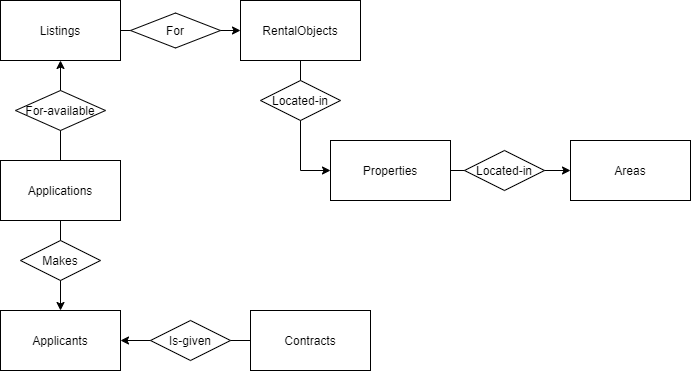
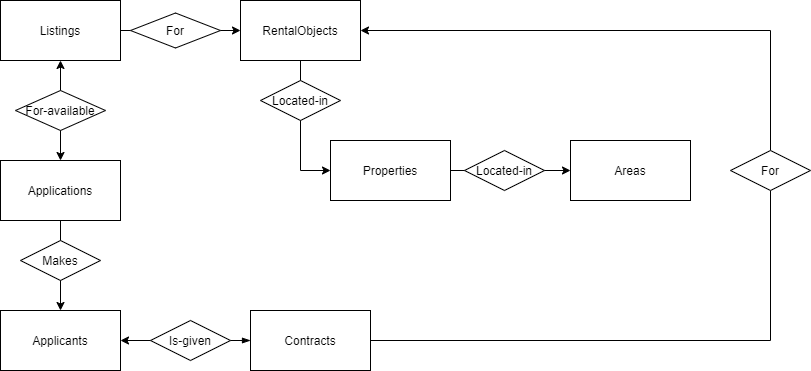
Applicants can now see all applications and their position in the queue

diff --git a/wwwroot/css/site.css b/wwwroot/css/site.css
@@ -73,7 +73,6 @@ body {
 /* Custom styles */
 ul {
   padding: 0;
-  margin: 0;
   list-style-type: none;
 }
 

diff --git a/Areas/Identity/Pages/Account/Manage/Index.cshtml.cs b/Areas/Identity/Pages/Account/Manage/Index.cshtml.cs
@@ -7,6 +7,9 @@ using csharp_asp_net_core_mvc_housing_queue.Models;
 using Microsoft.AspNetCore.Identity;
 using Microsoft.AspNetCore.Mvc;
 using Microsoft.AspNetCore.Mvc.RazorPages;
+using Microsoft.EntityFrameworkCore;
+using System.Reflection;
+using System.Security.Claims;
 
 namespace csharp_asp_net_core_mvc_housing_queue.Areas.Identity.Pages.Account.Manage
 {
@@ -14,16 +17,20 @@ namespace csharp_asp_net_core_mvc_housing_queue.Areas.Identity.Pages.Account.Man
     {
         private readonly UserManager<ApplicationUser> _userManager;
         private readonly SignInManager<ApplicationUser> _signInManager;
+        private readonly Data.ApplicationDbContext _context;
 
         public IndexModel(
             UserManager<ApplicationUser> userManager,
-            SignInManager<ApplicationUser> signInManager)
+            SignInManager<ApplicationUser> signInManager,
+            Data.ApplicationDbContext context)
         {
             _userManager = userManager;
             _signInManager = signInManager;
+            _context = context;
         }
 
         public string Username { get; set; }
+        public IEnumerable<MadeApplicationViewModel> MadeApplications { get; set; }
         
         [Display(Name = "Registration Date")]
         public string RegistrationDate { get; set; }
@@ -59,6 +66,65 @@ namespace csharp_asp_net_core_mvc_housing_queue.Areas.Identity.Pages.Account.Man
             var StreetAddress = user.StreetAddress;
 
             RegistrationDate = user.RegistrationDate.ToShortDateString();
+
+            string userId = _userManager.GetUserId(User);
+            var allMadeApplications = _context.MadeApplications
+                                                .FromSqlInterpolated(
+                                                    $@"SELECT L.ListingID, RO.RentalObjectID, 
+                                                    RO.Rooms, RO.Size, RO.Rent, P.StreetAddress, 
+                                                    A.ApplicationDate, L.LastApplicationDate, L.MoveInDate
+                                                        FROM Applications AS A
+                                                        INNER JOIN Listings as L
+                                                            ON A.ListingID = L.ListingID
+                                                        INNER JOIN RentalObjects as RO
+                                                            ON L.RentalObjectID = RO.RentalObjectID
+                                                        INNER JOIN Properties as P
+                                                            ON RO.PropertyID = P.PropertyID
+                                                        WHERE UserId = {userId}")
+                                                    .ToList();
+            
+            MadeApplications = allMadeApplications.Select(a => {
+                var applicantQueuePosition = _context.QueingApplicantPositions
+                                                        .FromSqlInterpolated(
+                                                            $@"SELECT PlaceInQueue FROM
+                                                                (SELECT UserId, ROW_NUMBER() OVER (ORDER BY QueueTime DESC, ApplicationDate ASC) AS PlaceInQueue
+                                                                FROM
+                                                                    (SELECT UserId, ApplicationDate, DATEDIFF(DAY, RegistrationDate, GETDATE()) AS QueueTime
+                                                                    FROM Applications AS A
+                                                                    INNER JOIN AspNetUsers AS U
+                                                                        ON A.UserId=U.Id
+                                                                    WHERE ListingID = {a.ListingID}
+                                                                        ) AS B
+                                                                ) as A
+                                                            WHERE UserId = {userId}")
+                                                        .ToList();
+
+                var applicantsInQueueCount = _context.QueingApplicantCounts
+                                                        .FromSqlInterpolated(
+                                                            $@"SELECT COUNT(UserId) AS ApplicantsCount
+                                                                FROM Applications
+                                                                WHERE ListingID = {a.ListingID}
+                                                                GROUP BY UserId")
+                                                        .ToList();
+
+                return new MadeApplicationViewModel {
+                    ListingID = a.ListingID,
+                    RentalObjectID = a.RentalObjectID,
+                    Rooms = a.Rooms.GetType()?
+                                    .GetMember(a.Rooms.ToString())?
+                                    .First()
+                                    .GetCustomAttribute<DisplayAttribute>()?
+                                    .Name,
+                    Size = a.Size.ToString("F"),
+                    Rent = a.Rent.ToString("F"),
+                    StreetAddress = a.StreetAddress,
+                    ApplicationDate = a.ApplicationDate.ToShortDateString(),
+                    LastApplicationDate = a.LastApplicationDate.ToShortDateString(),
+                    MoveInDate = a.LastApplicationDate.ToShortDateString(),
+                    PlaceInQueue = applicantQueuePosition.First().PlaceInQueue.ToString() ?? "0",
+                    TotalApplicantsInQueue = applicantsInQueueCount.First().ApplicantsCount.ToString() ?? "0"
+                };
+            });
 
             Input = new InputModel
             {

diff --git a/Data/ApplicationDbContext.cs b/Data/ApplicationDbContext.cs
@@ -24,8 +24,11 @@ namespace csharp_asp_net_core_mvc_housing_queue.Data
         public DbSet<Models.OpenListing> OpenListings { get; set; }
         public DbSet<Models.ListingDetail> ListingDetails { get; set; }
         public DbSet<Models.ActiveContract> ActiveContracts { get; set; }
-        public DbSet<Models.QueuingApplicant> QueuingApplicants { get; set; }
+        public DbSet<Models.QueuingApplicantDetail> QueuingApplicantsDetails { get; set; }
         public DbSet<Models.RentalObjectsPerAreaCount> RentalObjectsPerAreaCounts { get; set; }
+        public DbSet<Models.MadeApplication> MadeApplications { get; set; }
+        public DbSet<Models.QueingApplicantPosition> QueingApplicantPositions { get; set; }
+        public DbSet<Models.QueingApplicantsCount> QueingApplicantCounts { get; set; }
 
         protected override void OnModelCreating(ModelBuilder modelBuilder)
         {
@@ -56,13 +59,31 @@ namespace csharp_asp_net_core_mvc_housing_queue.Data
                 });
 
             modelBuilder
-                .Entity<Models.QueuingApplicant>(eb => 
+                .Entity<Models.QueuingApplicantDetail>(eb => 
                 {
                     eb.HasNoKey();
                 });
 
             modelBuilder
                 .Entity<Models.RentalObjectsPerAreaCount>(eb => 
+                {
+                    eb.HasNoKey();
+                });
+
+            modelBuilder
+                .Entity<Models.MadeApplication>(eb => 
+                {
+                    eb.HasNoKey();
+                });
+            
+            modelBuilder
+                .Entity<Models.QueingApplicantPosition>(eb => 
+                {
+                    eb.HasNoKey();
+                });
+
+            modelBuilder
+                .Entity<Models.QueingApplicantsCount>(eb => 
                 {
                     eb.HasNoKey();
                 });

diff --git a/ViewModels/MadeApplicationViewModel.cs b/ViewModels/MadeApplicationViewModel.cs
@@ -1,0 +1,22 @@
+using System;
+using System.ComponentModel.DataAnnotations;
+using System.ComponentModel.DataAnnotations.Schema;
+
+namespace csharp_asp_net_core_mvc_housing_queue.Models
+{   
+    public class MadeApplicationViewModel
+    {
+        public string ListingID { get; set; }
+        public string RentalObjectID { get; set; }
+        public string Rooms { get; set; }
+        public string Size { get; set; }
+        public string Rent { get; set; }
+        public string StreetAddress { get; set; }
+        public string ApplicationDate { get; set; }
+        public string LastApplicationDate { get; set; }
+        public string MoveInDate { get; set; }
+        public string PlaceInQueue { get; set; }
+        public string TotalApplicantsInQueue { get; set; }
+    }
+}
+

diff --git a/Models/MadeApplication.cs b/Models/MadeApplication.cs
@@ -1,0 +1,23 @@
+using System;
+using System.ComponentModel.DataAnnotations;
+using System.ComponentModel.DataAnnotations.Schema;
+
+namespace csharp_asp_net_core_mvc_housing_queue.Models
+{   
+    public class MadeApplication
+    {
+        public string ListingID { get; set; }
+        public string RentalObjectID { get; set; }
+        public Rooms Rooms { get; set; }
+
+        [Column(TypeName = "decimal(18,4)")]
+        public decimal Size { get; set; }
+
+        [Column(TypeName = "decimal(18,4)")]
+        public decimal Rent { get; set; }
+        public string StreetAddress { get; set; }
+        public DateTime ApplicationDate { get; set; }
+        public DateTime LastApplicationDate { get; set; }
+        public DateTime MoveInDate { get; set; }
+    }
+}

diff --git a/Controllers/AdminController.cs b/Controllers/AdminController.cs
@@ -79,7 +79,7 @@ namespace csharp_asp_net_core_mvc_housing_queue.Controllers
 
             IEnumerable<AdminListingViewModel> allListingsAndQueingApplicants = allOpenListings
             .Select(o => {
-                var queuingApplicants = _context.QueuingApplicants
+                var queuingApplicants = _context.QueuingApplicantsDetails
                                                             .FromSqlInterpolated(
                                                                 $@"SELECT UserId, FirstName, LastName, 
                                                                 RegistrationDate, ApplicationDate, 

diff --git a/Models/QueuingApplicantDetail.cs b/Models/QueuingApplicantDetail.cs
@@ -4,7 +4,7 @@ using System.ComponentModel.DataAnnotations.Schema;
 
 namespace csharp_asp_net_core_mvc_housing_queue.Models
 {   
-    public class QueuingApplicant
+    public class QueuingApplicantDetail
     {
         public string UserId { get; set; }
         public string FirstName { get; set; }

diff --git a/Models/QueingApplicantPosition.cs b/Models/QueingApplicantPosition.cs
@@ -1,0 +1,11 @@
+using System;
+using System.ComponentModel.DataAnnotations;
+using System.ComponentModel.DataAnnotations.Schema;
+
+namespace csharp_asp_net_core_mvc_housing_queue.Models
+{   
+    public class QueingApplicantPosition
+    {
+        public Int64? PlaceInQueue { get; set; }
+    }
+}

diff --git a/Models/QueingApplicantsCount.cs b/Models/QueingApplicantsCount.cs
@@ -1,0 +1,11 @@
+using System;
+using System.ComponentModel.DataAnnotations;
+using System.ComponentModel.DataAnnotations.Schema;
+
+namespace csharp_asp_net_core_mvc_housing_queue.Models
+{   
+    public class QueingApplicantsCount
+    {
+        public int ApplicantsCount { get; set; }
+    }
+}

diff --git a/README.md b/README.md
@@ -212,6 +212,42 @@ INSERT INTO Applications
     VALUES ({applicationId}, {userId}, {listingId}, {applicationDate})
 ```
 
+##### ✓ See all made applications
+```
+SELECT L.ListingID, RO.RentalObjectID, RO.Rooms, RO.Size, 
+RO.Rent, P.StreetAddress, A.ApplicationDate, L.LastApplicationDate, L.MoveInDate
+FROM Applications AS A
+INNER JOIN Listings as L
+    ON A.ListingID = L.ListingID
+INNER JOIN RentalObjects as RO
+    ON L.RentalObjectID = RO.RentalObjectID
+INNER JOIN Properties as P
+    ON RO.PropertyID = P.PropertyID
+WHERE UserId = ''
+```
+##### ✓ What is applicant's position in the queue?
+```
+SELECT PlaceInQueue FROM
+	(SELECT UserId, ROW_NUMBER() OVER (ORDER BY QueueTime DESC, ApplicationDate ASC) AS PlaceInQueue
+	FROM
+		(SELECT UserId, ApplicationDate, DATEDIFF(DAY, RegistrationDate, GETDATE()) AS QueueTime
+		FROM Applications AS A
+		INNER JOIN AspNetUsers AS U
+			ON A.UserId=U.Id
+		WHERE ListingID = ''
+			) AS B
+	) as A
+WHERE UserId = ''
+```
+
+##### ✓ How many are queuing for a particular listing?
+```
+SELECT COUNT(UserId) AS ApplicantsCount
+FROM Applications
+WHERE ListingID = ''
+GROUP BY UserId
+```
+
 #### Queries that will not be implemented
 ##### How many (open) listings are there in each area?
 ```
@@ -225,21 +261,6 @@ INNER JOIN Areas AS A
 	ON P.AreaID=A.AreaID
 WHERE LastApplicationDate > GETDATE() AND ListingClosureDate IS NULL
 GROUP BY A.Name;
-```
-
-##### See all applications (previous and current)
-```
-SELECT RO.RentalObjectID, RO.Rooms, RO.Size, RO.Rent, P.StreetAddress, ApplicationDate, LastApplicationDate, L.MoveInDate
-FROM Applications AS A
-INNER JOIN AspNetUsers AS U
-	ON A.UserId=U.Id
-INNER JOIN Listings as L
-	ON A.ListingID = L.ListingID
-INNER JOIN RentalObjects as RO
-	ON L.RentalObjectID = RO.RentalObjectID
-INNER JOIN Properties as P
-	ON RO.PropertyID = P.PropertyID
-WHERE UserId = ''
 ```
 
 ### .NET commandline
